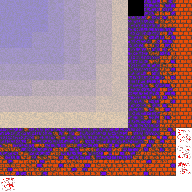
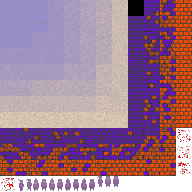
WIP for a funny little guy running around

Changed region(s): [[0.0938, 0.9062, 0.625, 1.0]]

diff --git a/gpu_pixel_game.py b/gpu_pixel_game.py
@@ -112,6 +112,12 @@ _DEBUG_PLAYER_POS_MOVE_TO_DIR_PROGRAM = viewport.make_permutation_program(
     GL_FRAGMENT_SHADER = gpu_pixel_game_lib.DEBUG_PLAYER_POS_MOVE_TO_DIR_FRAG
 )
 
+_DEBUG_CHAR0_MOVING_PROGRAM = viewport.make_permutation_program(
+    _DEBUGGING,
+    GL_VERTEX_SHADER = gpu_pixel_game_lib.DEBUG_CHAR0_MOVING_VERT,
+    GL_FRAGMENT_SHADER = gpu_pixel_game_lib.DEBUG_CHAR0_MOVING_FRAG
+)
+
 _VIS_GENERATE_PROGRAM = viewport.make_permutation_program(
     _DEBUGGING,
     GL_VERTEX_SHADER = gpu_pixel_game_lib.VIS_GENERATE_VERT,
@@ -202,6 +208,7 @@ class Renderer(object):
         self._mouse_uv = (0.5, 0.5)
 
         self._time = time.time()
+        self._start_time = time.time()
 
     def run(self):
         self.window.run()
@@ -724,10 +731,20 @@ class Renderer(object):
             glEnable(GL_BLEND)
             glBlendFunc(GL_ONE, GL_ONE_MINUS_SRC_ALPHA)
             glBlendEquation(GL_FUNC_ADD)
-            glUseProgram(_DEBUG_PLAYER_POS_MOVE_TO_DIR_PROGRAM.one())
-            glBindBufferBase(GL_UNIFORM_BUFFER, 0, self._global_parameters)
-            glBindBufferBase(GL_UNIFORM_BUFFER, 1, self._player_pos)
-            glBindBufferBase(GL_UNIFORM_BUFFER, 2, self._player_dir)
+            # Draw char0 sprite vs arrow
+            if True:
+                glUseProgram(_DEBUG_CHAR0_MOVING_PROGRAM.one())
+                glBindBufferBase(GL_UNIFORM_BUFFER, 0, self._global_parameters)
+                glBindBufferBase(GL_SHADER_STORAGE_BUFFER, 1, self._asset_atlas_data)
+                glBindBufferBase(GL_UNIFORM_BUFFER, 2, self._player_pos)
+                glBindBufferBase(GL_UNIFORM_BUFFER, 3, self._player_dir)
+                glBindTextureUnit(4, self._asset_atlas_base)
+                glUniform1f(0, (self._time - self._start_time)*12.0)
+            else:
+                glUseProgram(_DEBUG_PLAYER_POS_MOVE_TO_DIR_PROGRAM.one())
+                glBindBufferBase(GL_UNIFORM_BUFFER, 0, self._global_parameters)
+                glBindBufferBase(GL_UNIFORM_BUFFER, 1, self._player_pos)
+                glBindBufferBase(GL_UNIFORM_BUFFER, 2, self._player_dir)
             glDrawArrays(GL_TRIANGLES, 0, 6)
             glDisable(GL_BLEND)
 

diff --git a/gpu_pixel_game_lib/__init__.py b/gpu_pixel_game_lib/__init__.py
@@ -50,6 +50,8 @@ DEBUG_SET_PLAYER_POS_COMP = os.path.join(_SHADER_DIR, "playing", "debug_set_play
 DEBUG_PLAYER_POS_MOVE_TO_COMP = os.path.join(_SHADER_DIR, "playing", "debug_player_pos_move_to.comp")
 DEBUG_PLAYER_POS_MOVE_TO_DIR_VERT = os.path.join(_SHADER_DIR, "playing", "debug_player_pos_move_to_dir.vert")
 DEBUG_PLAYER_POS_MOVE_TO_DIR_FRAG = os.path.join(_SHADER_DIR, "playing", "debug_player_pos_move_to_dir.frag")
+DEBUG_CHAR0_MOVING_VERT = os.path.join(_SHADER_DIR, "playing", "debug_char0_moving.vert")
+DEBUG_CHAR0_MOVING_FRAG = os.path.join(_SHADER_DIR, "playing", "debug_char0_moving.frag")
 VIS_GENERATE_VERT = os.path.join(_SHADER_DIR, "playing", "vis_generate.vert")
 VIS_GENERATE_FRAG = os.path.join(_SHADER_DIR, "playing", "vis_generate.frag")
 VIS_GENERATE_CLEAR_FRAG = os.path.join(_SHADER_DIR, "playing", "vis_generate_clear.frag")

diff --git a/gpu_pixel_game_lib/assets/generate_tiles.py b/gpu_pixel_game_lib/assets/generate_tiles.py
@@ -168,13 +168,14 @@ def _dispatch_procedural(args):
 
 if __name__ == "__main__":
 
-    for filename in os.listdir(_STATIC_DIR):
-        if filename.endswith(".png"):
-            shutil.copyfile(
-                os.path.join(_STATIC_DIR, filename),
-                os.path.join(_TILES_DIR, filename)
-            )
-            print("Copying: {0}".format(filename))
+    for root, _, filenames in os.walk(_STATIC_DIR):
+        for filename in filenames:
+            if filename.endswith(".png"):
+                shutil.copyfile(
+                    os.path.join(root, filename),
+                    os.path.join(_TILES_DIR, filename)
+                )
+                print("Copying: {0}".format(filename))
 
     procedral_generators = (
         _generate_brick_commands,

diff --git a/gpu_pixel_game_lib/assets/tiles_to_atlas.py b/gpu_pixel_game_lib/assets/tiles_to_atlas.py
@@ -289,10 +289,10 @@ def pack_asset_entry(entry):
     roi = entry["roi"]
     roi_packed = numpy.array(
         [
-            roi[0],
             roi[1],
+            roi[0],
+            size[1] - roi[3],
             size[0] - roi[2],
-            size[1] - roi[3]
         ],
         dtype=numpy.uint8
     ).view(numpy.uint16)
@@ -397,3 +397,6 @@ if __name__ == "__main__":
     with open(_ATLAS_DATA, "wb") as out_fp:
         for ordered_id in ordered_ids:
             out_fp.write(pack_asset_entry(mapping[ordered_id]))
+
+    from pprint import pprint
+    pprint(mapping)
